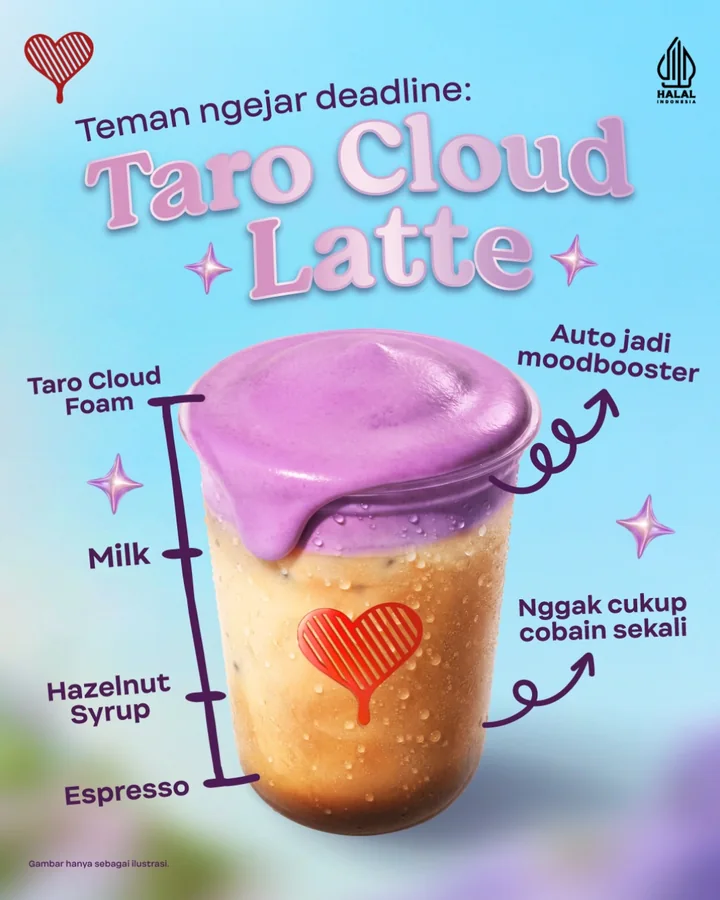
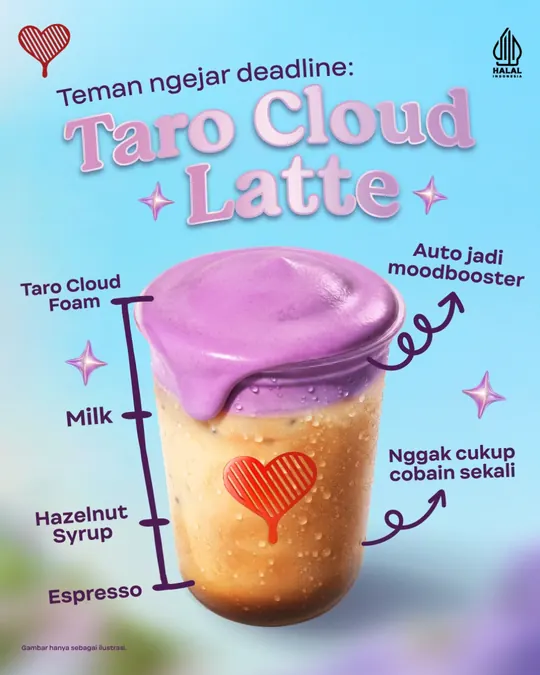
perf(v5.1): optimize V5 ads to 540x675 retina WebP, add vercel CDN cache & SW image cache, smart image auto-retry + eager priority, and harden checkout/category sync

diff --git a/src/js/app.js b/src/js/app.js
@@ -48,6 +48,7 @@
 
   // Live merged history cache for current customer device
   let customerHistoryCache = null;
+  let isSubmittingOrder = false;
 
   const debouncedOutletList = U.debounce(() => {
     if (STORE.getRoute() === "outlet") renderOutletList();
@@ -65,6 +66,9 @@
     renderRoute();
     maybeShowIntroSplash();
     initAutoGeolocation();
+    if ("serviceWorker" in navigator) {
+      navigator.serviceWorker.register("sw.js").catch(() => { /* ignore */ });
+    }
 
     window.addEventListener("hashchange", renderRoute);
     window.addEventListener("scroll", handleScroll, { passive: true });
@@ -408,7 +412,7 @@
           <div class="splash-stage">
             ${promos.map((p, idx) => `
               <article class="splash-slide ${idx === splashIndex ? "is-active" : ""}" data-splash-slide="${idx}" style="--splash-accent:${U.esc(p.accent || "#0B6BCB")}">
-                <img src="${U.esc(p.image)}" alt="${U.esc(p.brandName)}" class="splash-slide-bg" width="720" height="900" loading="${idx === 0 ? "eager" : "lazy"}" />
+                <img src="${U.esc(p.image)}" alt="${U.esc(p.brandName)}" class="splash-slide-bg" width="540" height="675" ${idx === 0 ? 'loading="eager" fetchpriority="high"' : 'loading="lazy"'} decoding="async" onerror="window.DLM_IMG_RETRY&&window.DLM_IMG_RETRY(this)" />
               </article>
             `).join("")}
           </div>
@@ -792,7 +796,7 @@
                 return `
                   <article class="ad-showcase-slide ${idx === promoSlideIndex ? "is-active" : ""}" data-action="promo-select-brand" data-brand-id="${U.esc(slide.brandId)}">
                     <div class="ad-sculpted-frame">
-                      <img src="${U.esc(slide.image)}" alt="${U.esc(slide.title)}" class="ad-showcase-img" width="720" height="900" loading="${idx <= 1 ? "eager" : "lazy"}" decoding="async" />
+                      <img src="${U.esc(slide.image)}" alt="${U.esc(slide.title)}" class="ad-showcase-img" width="540" height="675" ${idx <= 1 ? 'loading="eager" fetchpriority="high"' : 'loading="lazy"'} decoding="async" onerror="window.DLM_IMG_RETRY&&window.DLM_IMG_RETRY(this)" />
                     </div>
                     <span class="ad-floating-brand" aria-hidden="true">
                       <img src="${U.esc(bLogo)}" alt="" width="24" height="24" />
@@ -1101,7 +1105,7 @@
                 ${activeAds.map((ad, idx) => `
                   <div class="brand-ad-slide ${idx === 0 ? "is-active" : ""}">
                     <div class="brand-ad-frame">
-                      <img src="${U.esc(ad.image)}" alt="Promo ${U.esc(brand.name)} ${idx + 1}" width="720" height="900" loading="${idx <= 1 ? "eager" : "lazy"}" decoding="async" />
+                      <img src="${U.esc(ad.image)}" alt="Promo ${U.esc(brand.name)} ${idx + 1}" width="540" height="675" ${idx <= 1 ? 'loading="eager" fetchpriority="high"' : 'loading="lazy"'} decoding="async" onerror="window.DLM_IMG_RETRY&&window.DLM_IMG_RETRY(this)" />
                     </div>
                   </div>
                 `).join("")}
@@ -1240,6 +1244,8 @@
           ? "Baru & Favorit • Purple Cloud & Mantan"
           : "Janji Jiwa Specials • Borneo & Toast"));
 
+    let renderedRowIdx = 0;
+
     results.innerHTML = `
       ${showMustTry && mustTryItems.length ? `
         <section class="menu-category-group">
@@ -1248,7 +1254,7 @@
             <span>${mustTryItems.length} menu unggulan</span>
           </div>
           <div class="must-try-grid">
-            ${mustTryItems.map(item => mustTryCard(brand, item)).join("")}
+            ${mustTryItems.map(item => mustTryCard(brand, item, true)).join("")}
           </div>
         </section>
       ` : ""}
@@ -1260,7 +1266,7 @@
             <span>${group.list.length} menu</span>
           </div>
           <div class="menu-rows-list">
-            ${group.list.map(item => menuRowCard(brand, item)).join("")}
+            ${group.list.map(item => menuRowCard(brand, item, renderedRowIdx++ < 6)).join("")}
           </div>
         </section>
       `).join("")}
@@ -1273,12 +1279,12 @@
     return "";
   }
 
-  function mustTryCard(brand, item) {
+  function mustTryCard(brand, item, eager) {
     const discount = Math.round(((item.priceOriginal - item.priceDiscount) / item.priceOriginal) * 100);
     return `
       <button type="button" class="must-try-card" data-item-id="${U.esc(item.id)}">
         <span class="must-try-media">
-          ${U.imageTag(item.image, item.name, "product-img")}
+          ${U.imageTag(item.image, item.name, "product-img", !!eager)}
           <span class="menu-row-badge">-${discount}%</span>
           ${brandMediaDecoration(brand, item)}
         </span>
@@ -1294,7 +1300,7 @@
     `;
   }
 
-  function menuRowCard(brand, item) {
+  function menuRowCard(brand, item, eager) {
     const discount = Math.round(((item.priceOriginal - item.priceDiscount) / item.priceOriginal) * 100);
     const savingAmount = Math.max(0, item.priceOriginal - item.priceDiscount);
     const watermark = brand.id === "tomoro"
@@ -1305,7 +1311,7 @@
       <button type="button" class="menu-row-card" data-item-id="${U.esc(item.id)}">
         ${watermark}
         <span class="menu-row-media">
-          ${U.imageTag(item.image, item.name, "product-img")}
+          ${U.imageTag(item.image, item.name, "product-img", !!eager)}
           <span class="menu-row-badge">-${discount}%</span>
           ${brandMediaDecoration(brand, item)}
         </span>
@@ -2254,6 +2260,8 @@
   }
 
   function submitOrder() {
+    if (isSubmittingOrder) return;
+
     const summary = CART.getSummary();
     const brand = STORE.getBrand();
     const outlet = STORE.getOutlet();
@@ -2277,11 +2285,15 @@
       return;
     }
 
+    isSubmittingOrder = true;
+    setTimeout(() => { isSubmittingOrder = false; }, 1400);
+
+    const isDelivery = STORE.state.orderMode === "delivery";
     const customer = {
       name: STORE.state.customer.name.trim(),
       phone: STORE.state.customer.phone.trim(),
       pickupTime: STORE.state.customer.pickupTime.trim() || "Secepatnya",
-      address: STORE.state.customer.address.trim(),
+      address: isDelivery ? STORE.state.customer.address.trim() : "",
       notes: STORE.state.customer.notes.trim()
     };
 
@@ -2297,6 +2309,24 @@
     });
 
     const result = WA.openWhatsApp(message);
+    const normalizedItems = summary.items.map(item => {
+      const catItem = STORE.getItem(brand.id, item.id);
+      return {
+        id: item.id,
+        brandId: item.brandId,
+        brandName: item.brandName,
+        category: item.category || (catItem && catItem.category) || "",
+        name: item.name,
+        image: item.image,
+        type: item.type,
+        selections: item.selections || [],
+        notes: item.notes || "",
+        quantity: item.quantity,
+        unitPrice: item.unitPrice,
+        unitOriginalPrice: item.unitOriginalPrice
+      };
+    });
+
     const order = {
       orderId,
       deviceId: STORE.state.deviceId,
@@ -2308,19 +2338,7 @@
       outletAddress: outlet.address,
       total: summary.grandTotal,
       itemsCount: summary.totalItems,
-      items: summary.items.map(item => ({
-        id: item.id,
-        brandId: item.brandId,
-        brandName: item.brandName,
-        name: item.name,
-        image: item.image,
-        type: item.type,
-        selections: item.selections,
-        notes: item.notes,
-        quantity: item.quantity,
-        unitPrice: item.unitPrice,
-        unitOriginalPrice: item.unitOriginalPrice
-      })),
+      items: normalizedItems,
       mode: STORE.state.orderMode,
       message,
       url: result.url,
@@ -2332,7 +2350,7 @@
     CART.clear();
 
     if (window.DLM_SUPABASE && typeof window.DLM_SUPABASE.submitCustomerOrder === "function") {
-      window.DLM_SUPABASE.submitCustomerOrder({
+      const rpcPayload = {
         order_code: orderId,
         customer_device_id: STORE.state.deviceId,
         status: "pending_wa",
@@ -2348,19 +2366,41 @@
         delivery_address: customer.address,
         customer_notes: customer.notes,
         wa_message: message,
-        items: summary.items.map(item => ({
+        items: normalizedItems.map(item => ({
           id: item.id,
           name: item.name,
-          category: item.category || "",
+          category: item.category,
           quantity: item.quantity,
           unit_price: item.unitPrice,
           unit_original_price: item.unitOriginalPrice,
-          selections: item.selections || [],
-          notes: item.notes || ""
+          selections: item.selections,
+          notes: item.notes
         }))
-      }).catch(() => {
-        /* fallback tersimpan di localStorage perangkat */
-      });
+      };
+
+      const syncRemoteHistory = () => {
+        if (typeof window.DLM_SUPABASE.fetchCustomerOrders === "function") {
+          window.DLM_SUPABASE.fetchCustomerOrders(STORE.state.deviceId).then(remoteOrders => {
+            if (Array.isArray(remoteOrders)) {
+              customerHistoryCache = remoteOrders;
+              if (STORE.getRoute() === "history") {
+                renderHistoryCards(mergeHistoryOrders(WA.getOrders() || [], remoteOrders));
+              }
+            }
+          }).catch(() => { /* ignore */ });
+        }
+      };
+
+      window.DLM_SUPABASE.submitCustomerOrder(rpcPayload)
+        .then(syncRemoteHistory)
+        .catch(() => {
+          // Auto-retry once if transient mobile network blip occurs
+          setTimeout(() => {
+            window.DLM_SUPABASE.submitCustomerOrder(rpcPayload)
+              .then(syncRemoteHistory)
+              .catch(() => { /* fallback remains saved in localStorage */ });
+          }, 1200);
+        });
     }
 
     showSuccessModal(order);
@@ -2391,6 +2431,7 @@
             id: raw.id || (catalogItem ? catalogItem.id : U.uid("item")),
             brandId: brand.id,
             brandName: brand.name,
+            category: raw.category || (catalogItem ? catalogItem.category : ""),
             name: raw.name || (catalogItem ? catalogItem.name : "Menu Kopi"),
             image: raw.image || (catalogItem ? catalogItem.image : "src/assets/products/iced-coffee.webp"),
             type: raw.type || (catalogItem ? catalogItem.type : "drink"),

diff --git a/sw.js b/sw.js
@@ -1,0 +1,55 @@
+/* ============================================================
+   DIBELIIN LEBIH MURAH — IMAGE & ASSET CACHE SERVICE WORKER (V5.1)
+   Cache-First ONLY for static images/vectors in /src/assets/
+   Never caches Supabase API calls, HTML, or live price data.
+   ============================================================ */
+const ASSET_CACHE = "dlm-assets-v5-1";
+
+self.addEventListener("install", (event) => {
+  self.skipWaiting();
+});
+
+self.addEventListener("activate", (event) => {
+  event.waitUntil(
+    caches.keys().then((keys) =>
+      Promise.all(
+        keys
+          .filter((key) => key.startsWith("dlm-assets-") && key !== ASSET_CACHE)
+          .map((key) => caches.delete(key))
+      )
+    ).then(() => self.clients.claim())
+  );
+});
+
+self.addEventListener("fetch", (event) => {
+  const req = event.request;
+  if (req.method !== "GET") return;
+
+  let url;
+  try {
+    url = new URL(req.url);
+  } catch (e) {
+    return;
+  }
+
+  // Only intercept same-origin static assets under /src/assets/
+  if (url.origin !== self.location.origin) return;
+  if (!url.pathname.startsWith("/src/assets/")) return;
+
+  // Strip transient retry query param for canonical cache lookup
+  const cacheKey = new Request(url.origin + url.pathname, { method: "GET" });
+
+  event.respondWith(
+    caches.open(ASSET_CACHE).then((cache) =>
+      cache.match(cacheKey).then((cached) => {
+        if (cached) return cached;
+        return fetch(req).then((networkRes) => {
+          if (networkRes && networkRes.ok && networkRes.status === 200) {
+            cache.put(cacheKey, networkRes.clone());
+          }
+          return networkRes;
+        });
+      })
+    )
+  );
+});

diff --git a/src/js/utils.js b/src/js/utils.js
@@ -85,9 +85,32 @@
     window.scrollTo({ top: 0, behavior: smooth === false ? "auto" : "smooth" });
   };
 
+  const retryImage = (img) => {
+    if (!img || !img.src) return;
+    const count = parseInt(img.dataset.retry || "0", 10);
+    if (count >= 2) {
+      img.classList.add("is-img-failed");
+      return;
+    }
+    const next = count + 1;
+    img.dataset.retry = String(next);
+    const base = img.dataset.origSrc || img.getAttribute("src") || "";
+    if (!base) return;
+    img.dataset.origSrc = base;
+    const sep = base.includes("?") ? "&" : "?";
+    setTimeout(() => {
+      if (img && img.isConnected) {
+        img.src = `${base}${sep}_r=${next}`;
+      }
+    }, next === 1 ? 550 : 1400);
+  };
+
+  window.DLM_IMG_RETRY = retryImage;
+
   const imageTag = (src, alt, className, eager) => {
     const cls = className || "";
-    return `<img src="${esc(src)}" alt="${esc(alt)}" class="${cls}" width="400" height="400" ${eager ? 'fetchpriority="high"' : 'loading="lazy"'} decoding="async" onerror="this.classList.add('is-hidden')">`;
+    const loadingAttr = eager ? 'loading="eager" fetchpriority="high"' : 'loading="lazy"';
+    return `<img src="${esc(src)}" alt="${esc(alt)}" class="${cls}" width="400" height="400" ${loadingAttr} decoding="async" onerror="window.DLM_IMG_RETRY&&window.DLM_IMG_RETRY(this)">`;
   };
 
   const getDeviceId = () => {

diff --git a/src/css/app.css b/src/css/app.css
@@ -6416,3 +6416,22 @@ body.has-bottom-bar .app-main {
 .brand-ad-bar-external .brand-ad-btn {
   background: rgba(15, 23, 42, 0.28);
 }
+
+/* G. SUBTLE SHIMMER PLACEHOLDER BEHIND LOADING IMAGES (Never hides img) */
+.must-try-media,
+.menu-row-media,
+.ad-sculpted-frame,
+.brand-ad-frame,
+.cart-media {
+  background-image: linear-gradient(
+    110deg,
+    rgba(226, 236, 249, 0.45) 8%,
+    rgba(255, 255, 255, 0.85) 18%,
+    rgba(226, 236, 249, 0.45) 33%
+  );
+  background-size: 200% 100%;
+}
+
+img.is-img-failed {
+  opacity: 0.15;
+}

diff --git a/src/js/customizer.js b/src/js/customizer.js
@@ -369,6 +369,7 @@
           id: currentItem.id,
           brandId: currentItem.brandId,
           brandName: currentBrand.name,
+          category: currentItem.category || "",
           name: currentItem.name,
           image: currentItem.image,
           type: currentItem.type,
